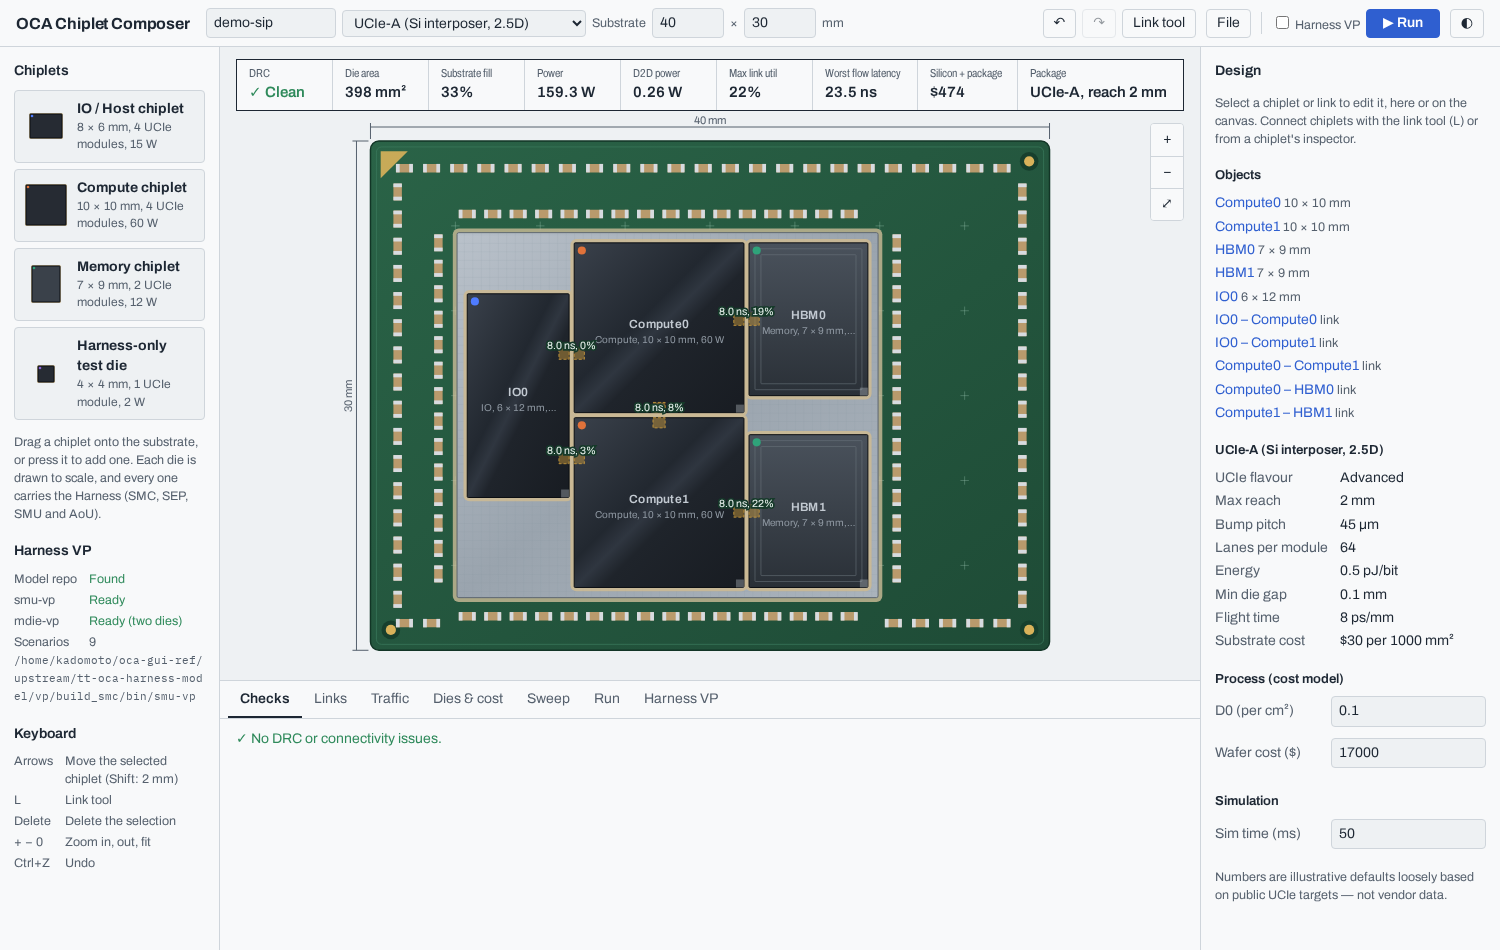
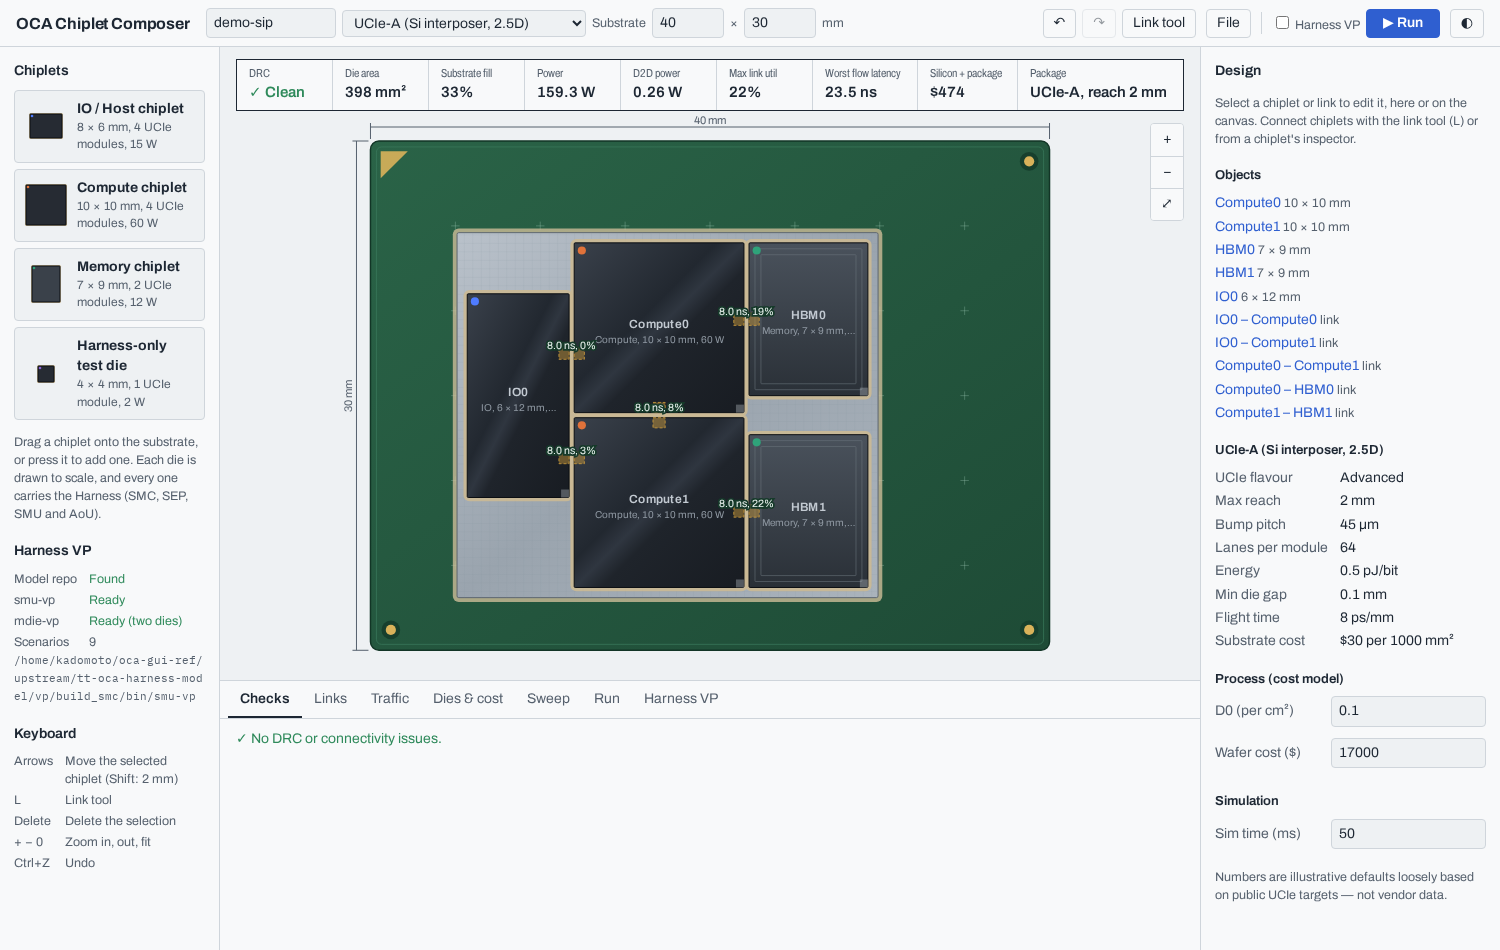
Remove decoupling capacitors from the canvas
They added visual noise without carrying any design information.

diff --git a/frontend/index.html b/frontend/index.html
@@ -454,37 +454,6 @@ function renderCanvas(){
       <rect x="${x0}" y="${y0}" width="${x1 - x0}" height="${y1 - y0}" rx="0.1" fill="url(#interposer)" stroke="#5d6670" stroke-width="${1/s}"><title>Silicon interposer</title></rect>
       <rect x="${x0}" y="${y0}" width="${x1 - x0}" height="${y1 - y0}" fill="url(#ipGrid)" style="pointer-events:none"/>`;
   }
-  // ---- decoupling capacitors (0402 MLCCs) on the free substrate: perimeter rows and rings around dies
-  {
-    const occupied = D.chiplets.map(c => [c.x_mm - 0.7, c.y_mm - 0.7, c.x_mm + c.w_mm + 0.7, c.y_mm + c.h_mm + 0.7]);
-    if (ipBox) occupied.push([ipBox[0] - 0.8, ipBox[1] - 0.8, ipBox[2] + 0.8, ipBox[3] + 0.8]);
-    const phyEdges = new Set(physOK ? EVAL.phys.map(p => p.chip + p.edge) : []);
-    const caps = [];
-    const hit = (r, list) => list.some(o => r[0] < o[2] && o[0] < r[2] && r[1] < o[3] && o[1] < r[3]);
-    const tryCap = (cx, cy, horiz) => {
-      if (caps.length > 360) return;
-      const w = horiz ? 1.0 : 0.5, hh = horiz ? 0.5 : 1.0, r = [cx - w/2, cy - hh/2, cx + w/2, cy + hh/2];
-      if (r[0] < 0.5 || r[1] < 0.5 || r[2] > P.w_mm - 0.5 || r[3] > P.h_mm - 0.5) return;
-      if (hit(r, occupied) || hit(r, caps.map(c => [c[0] - 0.25, c[1] - 0.25, c[2] + 0.25, c[3] + 0.25]))) return;
-      caps.push(r);
-    };
-    const ring = (b, off, edgeOk) => {
-      const [x0, y0, x1, y1] = b;
-      for (let x = x0 + 0.6; x <= x1 - 0.6; x += 1.5){ if (edgeOk('N')) tryCap(x, y0 - off, true); if (edgeOk('S')) tryCap(x, y1 + off, true); }
-      for (let y = y0 + 0.6; y <= y1 - 0.6; y += 1.5){ if (edgeOk('W')) tryCap(x0 - off, y, false); if (edgeOk('E')) tryCap(x1 + off, y, false); }
-    };
-    // caps sit 1.0 mm out (ring) or 1.1 mm (interposer), just past the 0.7 / 0.8 mm keep-outs
-    if (ipBox) ring(ipBox, 1.1, () => true);
-    else for (const c of D.chiplets) ring([c.x_mm, c.y_mm, c.x_mm + c.w_mm, c.y_mm + c.h_mm], 1.0, e => !phyEdges.has(c.id + e));
-    for (let x = 2; x < P.w_mm - 1.5; x += 1.6){ tryCap(x, 1.6, true); tryCap(x, P.h_mm - 1.6, true); }
-    for (let y = 3; y < P.h_mm - 2.5; y += 1.6){ tryCap(1.6, y, false); tryCap(P.w_mm - 1.6, y, false); }
-    for (const [x0, y0, x1, y1] of caps){
-      const horiz = x1 - x0 > y1 - y0, t = horiz ? (x1 - x0) * 0.22 : (y1 - y0) * 0.22;
-      h += `<g style="pointer-events:none"><rect x="${x0}" y="${y0}" width="${x1 - x0}" height="${y1 - y0}" rx="0.04" fill="#b99a6c"/>
-        ${horiz ? `<rect x="${x0}" y="${y0}" width="${t}" height="${y1 - y0}" fill="#d7dbe0"/><rect x="${x1 - t}" y="${y0}" width="${t}" height="${y1 - y0}" fill="#d7dbe0"/>`
-                : `<rect x="${x0}" y="${y0}" width="${x1 - x0}" height="${t}" fill="#d7dbe0"/><rect x="${x0}" y="${y1 - t}" width="${x1 - x0}" height="${t}" fill="#d7dbe0"/>`}</g>`;
-    }
-  }
   // ---- dimension lines, as on an assembly drawing
   const dy = -14/s, dx = -14/s, tk = 4/s, f = 11/s, sw = 1/s;
   h += `<g stroke="var(--ink-2)" stroke-width="${sw}" fill="none">

diff --git a/README.md b/README.md
@@ -16,7 +16,7 @@ Choosing chiplet sizes, a package technology and die-to-die links is a physical 
 
 ## Features
 
-- Drag-and-drop editor with dies drawn to scale on a package that looks like the real thing: an organic substrate with decoupling capacitors, a silicon interposer for 2.5D, or embedded bridges under each link
+- Drag-and-drop editor with dies drawn to scale on a package that looks like the real thing: an organic substrate, a silicon interposer for 2.5D, or embedded bridges under each link
 - UCIe PHYs placed on the facing die edges, and links routed between them, shown as an X-ray view through the dies
 - Live design rule checks: substrate bounds, die spacing, UCIe reach, PHY shoreline per die edge, UCIe module count, and dies that don't face each other
 - Traffic flows routed on the lowest-latency path, with per-link utilisation and loaded latency
@@ -102,7 +102,7 @@ The composer drives `smu-vp`, the SMC + SEP virtual platform in tt-oca-harness-m
 
    | Technology | Typical use | Drawn as |
    |---|---|---|
-   | UCIe-S, organic | 2D multi-die packages, dies a few mm apart | dies on a build-up laminate substrate, ringed with decoupling capacitors |
+   | UCIe-S, organic | 2D multi-die packages, dies a few mm apart | dies on a build-up laminate substrate with pin 1 and fiducials |
    | UCIe-A, silicon interposer | 2.5D, e.g. compute dies with HBM stacks | dies packed on a silicon interposer that sits on the substrate |
    | UCIe-A, embedded bridge | 2.5D without a full interposer | a silicon bridge under each link, spanning the gap between the dies |
 
